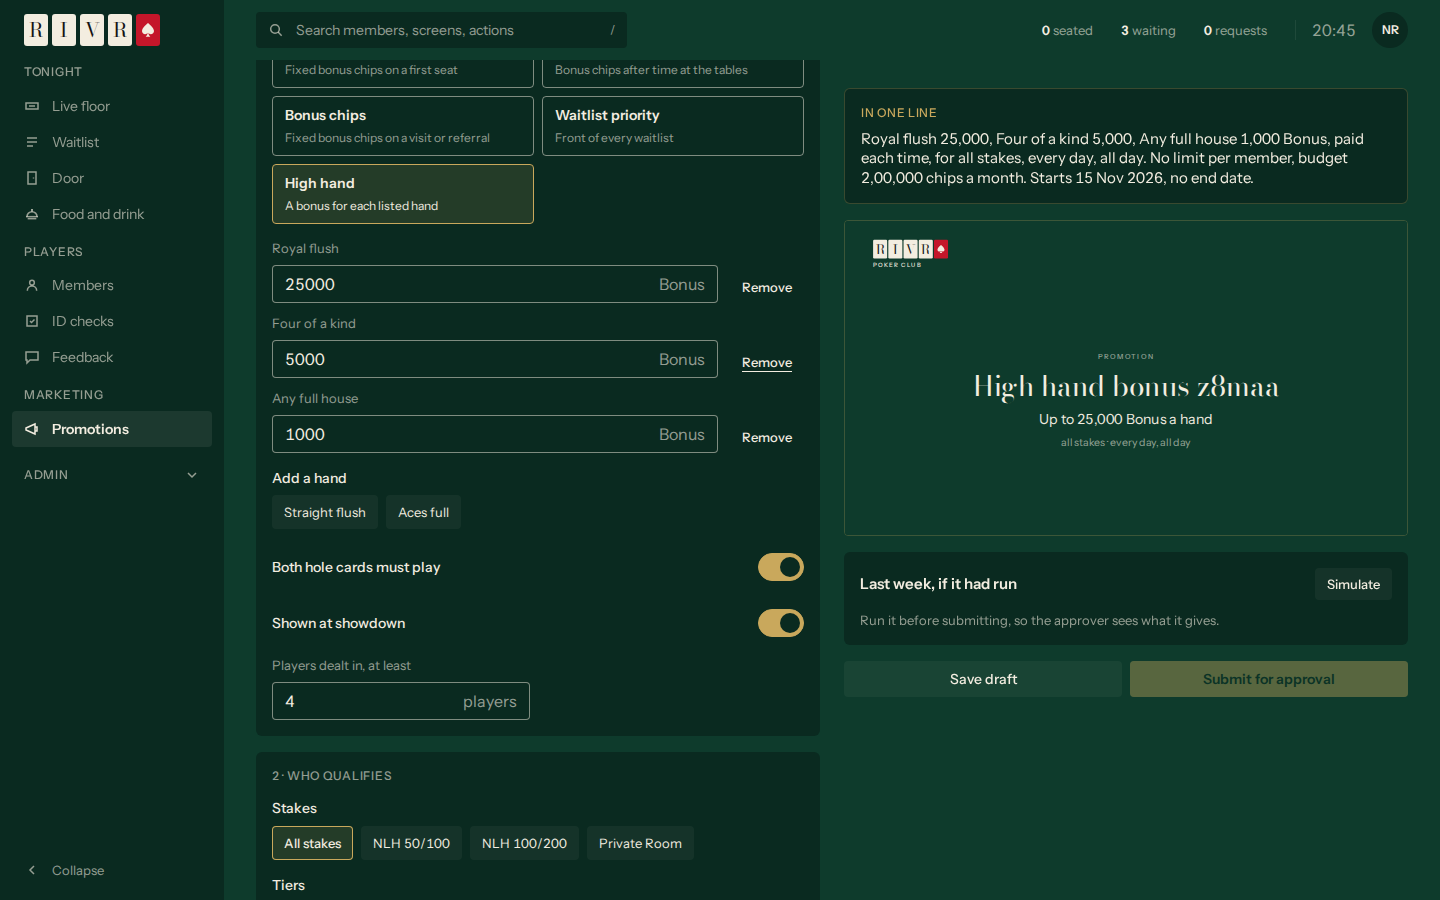
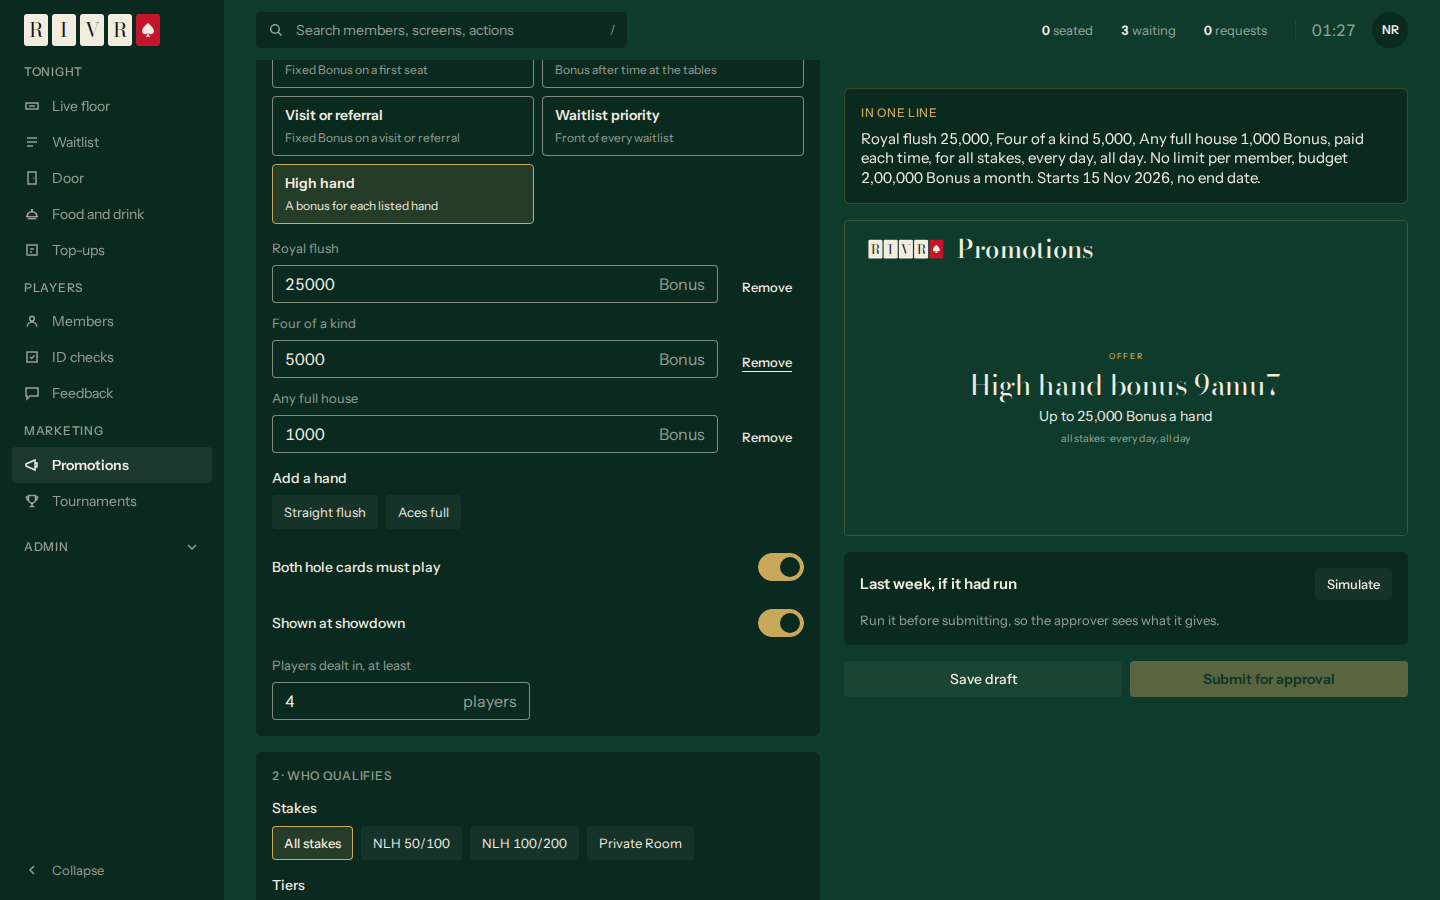
docs(design): re-shoot the high hand pictures, remove two stale ones
Review of #1016: pictures that showed copy the code no longer has.

- Re-shot at this head with HIGH_HAND_SHOTS=1 (the high hand flows and
  tv-boards): every picture under built/high-hand, among them the five
  the review named (Activity, the builder, the record's paid hits and
  hands and rules, the log panel). The floor flow now closes the seat's
  toast first, so the log panel's picture shows the panel alone.
- Removed: built/home/home-seated-offers.png and
  built/tv-boards/01-waitlist-1920.png, from an older state; no flow
  takes them, and nothing links them.

diff --git a/e2e/flows/high-hand-floor.spec.ts b/e2e/flows/high-hand-floor.spec.ts
@@ -54,6 +54,8 @@ test.describe('Log a high hand', () => {
     await signInToConsole(floor, '9000000163');
     await expect(stripOf(floor).getByText('No hands paid tonight')).toBeVisible({ timeout: 15_000 });
     await seatOnFloor(floor, { table: 'Table 2', seat: 3, number: '9000000261' });
+    // The seat's toast closed, so the log panel's picture shows the panel alone.
+    await floor.getByRole('status').filter({ hasText: '9000000261 seated at Table 2, seat 3' }).getByRole('button', { name: 'Close', exact: true }).click();
 
     await logHit(floor, { hand: 'Four of a kind · 5,000', rank: { label: 'Four of', value: 'Jacks' }, pays: '5,000 Bonus to Devansh Malik now. Four Jacks', shot: 'console-log-panel-1440' });
     await expect(floor.getByText('5,000 Bonus paid to Devansh Malik for Four Jacks')).toBeVisible({ timeout: 10_000 });
